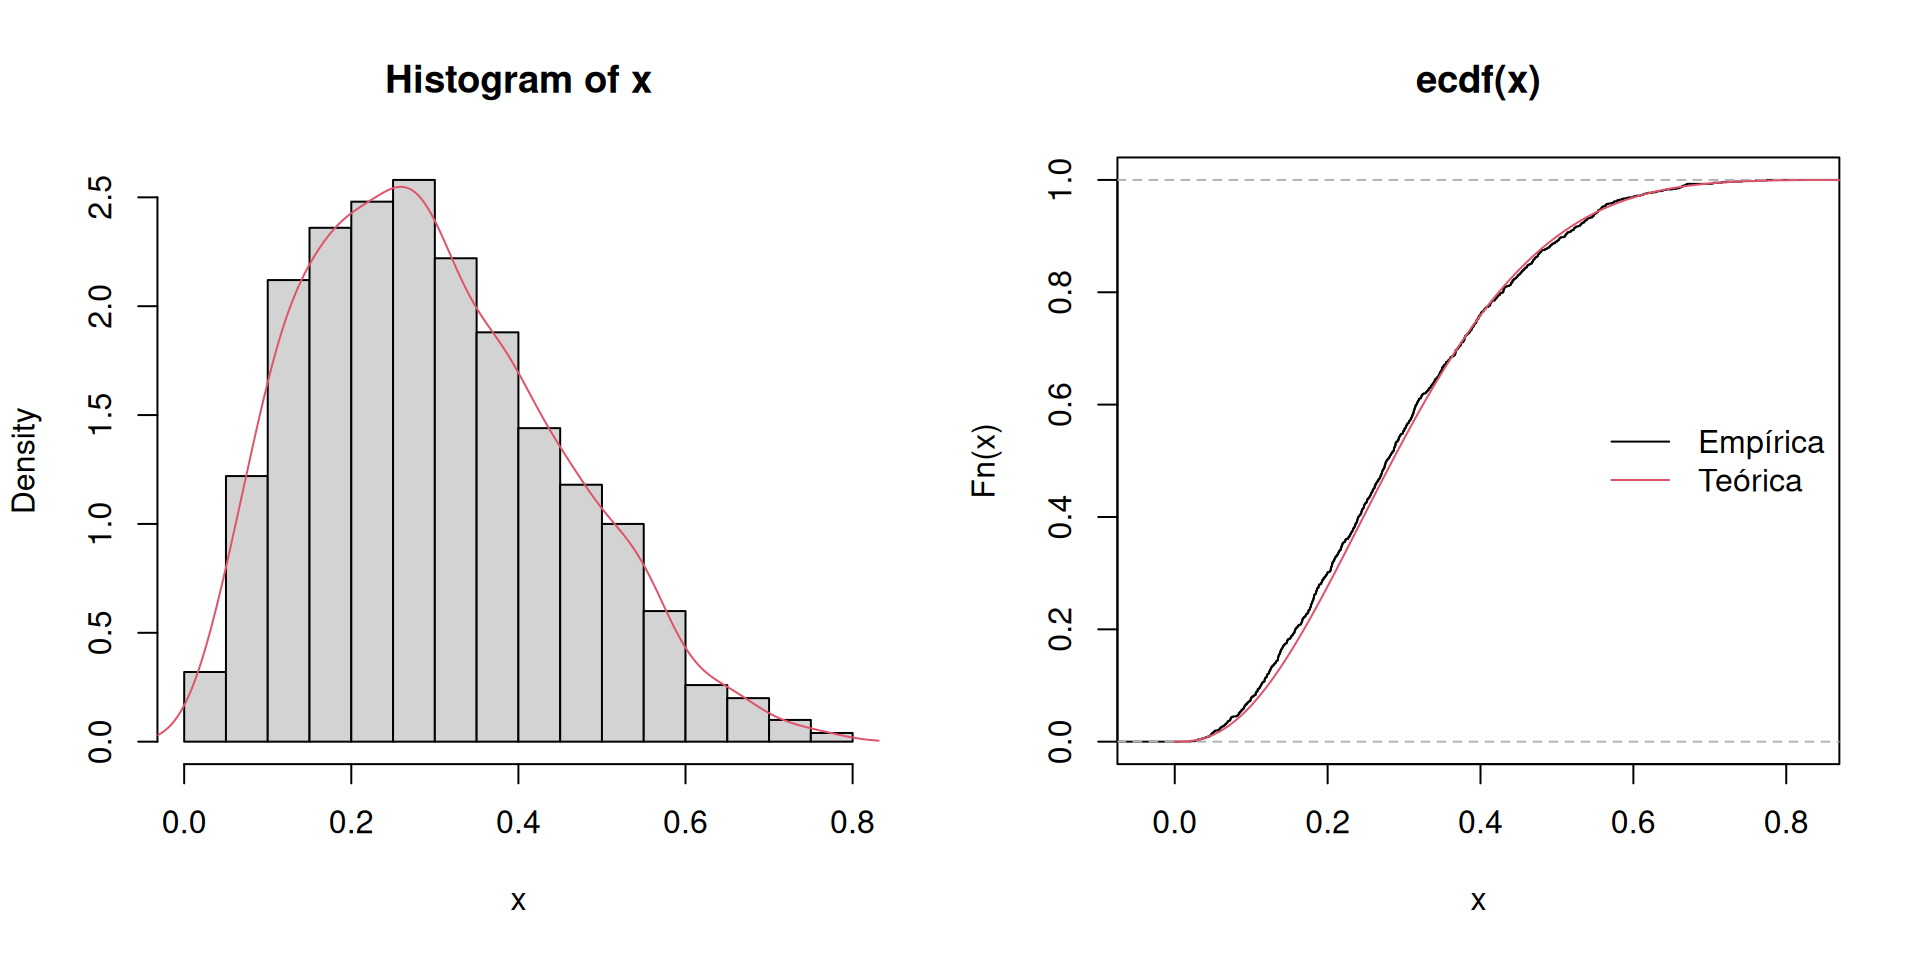
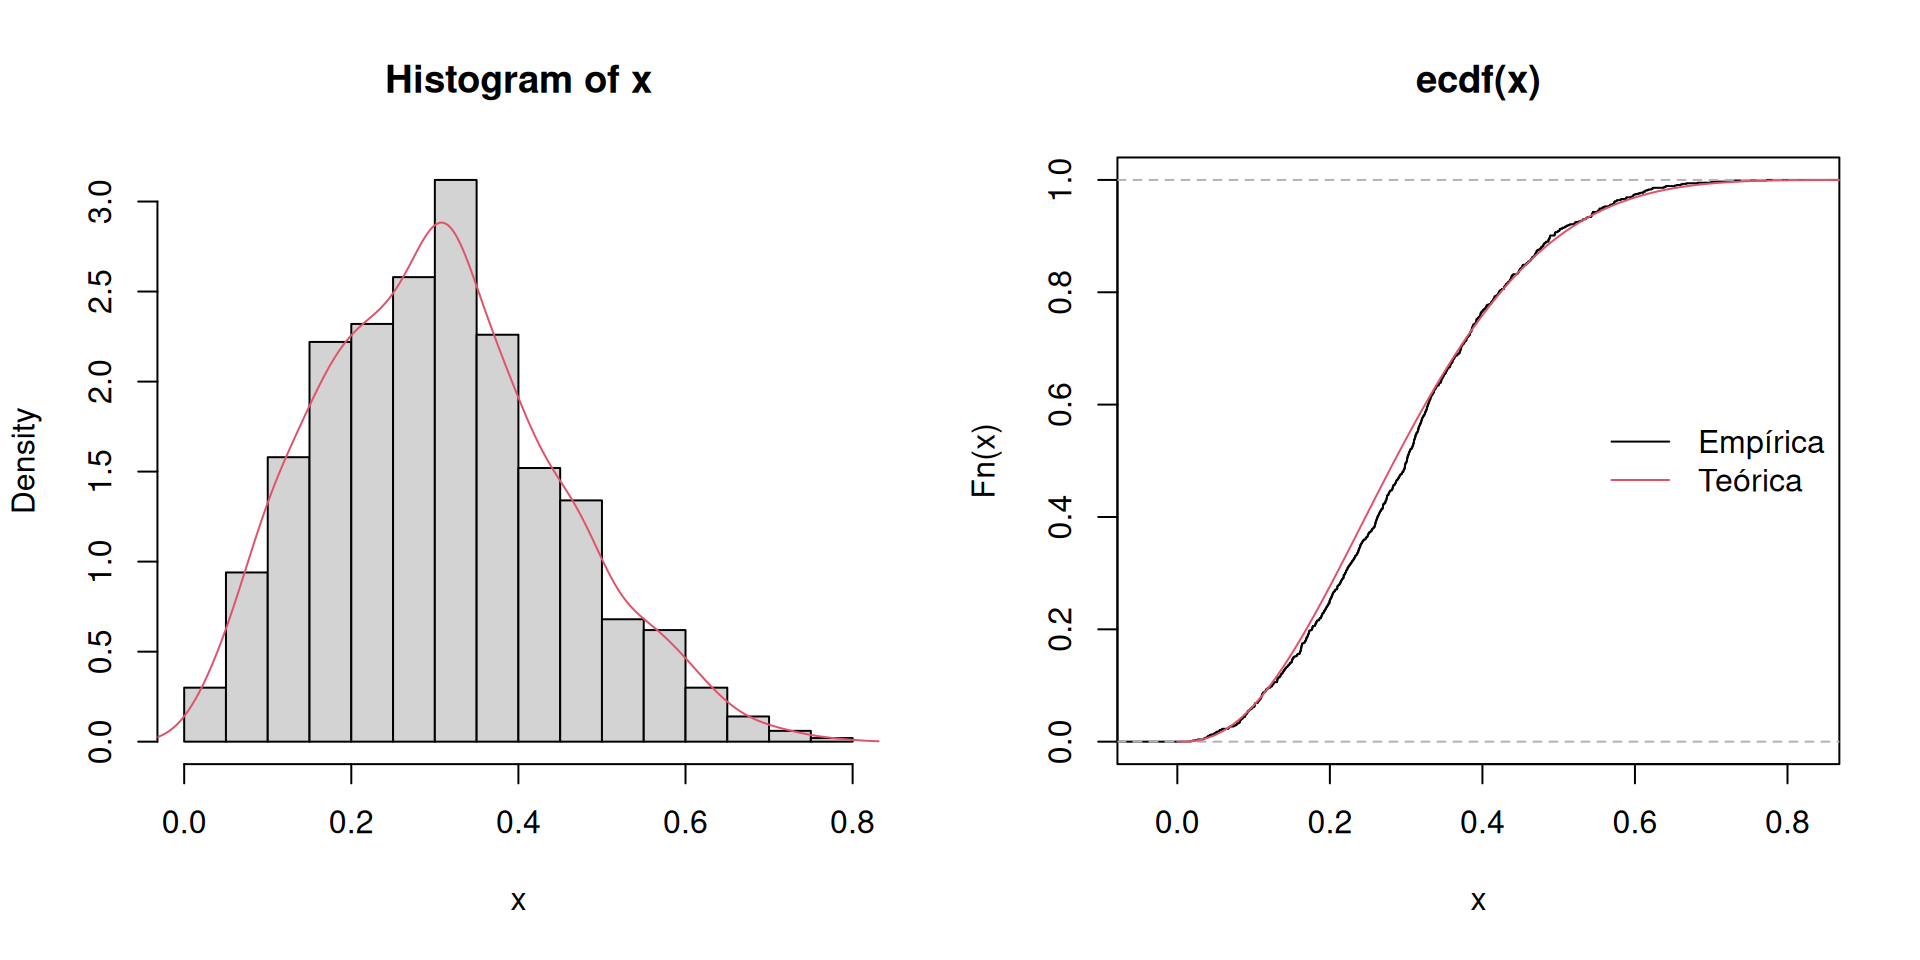
alterado cronograma de aulas

diff --git a/docs/slides/03-Introducao_ao_LaTeX/03-Introducao_ao_LaTeX.html b/docs/slides/03-Introducao_ao_LaTeX/03-Introducao_ao_LaTeX.html
@@ -272,7 +272,7 @@
 <li><p>LaTeX é um pacote dedicado à produção de textos impressos de alta qualidade, com foco especial em textos matemáticos.</p></li>
 <li><p>LaTeX foi desenvolvido por Leslie Lamport como uma evolução do programa TeX, criado por Donald Knuth.</p></li>
 </ul>
-<div class="quarto-layout-panel" data-layout-ncol="2" style="text-align: center;">
+<div class="quarto-layout-panel" style="text-align: center;" data-layout-ncol="2">
 <div class="quarto-layout-row">
 <div class="quarto-layout-cell" style="flex-basis: 50.0%;justify-content: flex-start;">
 <p><img data-src="imagens/Leslie_Lamport.jpg" style="width:7cm"><br> Leslie Lamport</p>
@@ -309,7 +309,7 @@
 <h2>Ferramentas Essenciais para Trabalhar com <img src="imagens/latexicon.png" style="width: 100px; vertical-align: middle; margin-left: 0px; margin-top: 11px;"></h2>
 <p>Para usar o LaTeX, precisamos de duas ferramentas essenciais:</p>
 <h4 id="distribuição-tex">Distribuição TeX:</h4>
-<div class="quarto-layout-panel" data-layout-ncol="2" style="text-align: center;">
+<div class="quarto-layout-panel" style="text-align: center;" data-layout-ncol="2">
 <div class="quarto-layout-row quarto-layout-valign-bottom">
 <div class="quarto-layout-cell" style="flex-basis: 50.0%;justify-content: flex-start;">
 <p><img data-src="imagens/miktex.png" style="width:4cm"><br> MiKTeX</p>
@@ -320,7 +320,7 @@
 </div>
 </div>
 <h4 id="ambiente-de-desenvolvimento-integrado-ide">Ambiente de desenvolvimento integrado (IDE):</h4>
-<div class="quarto-layout-panel" data-layout-ncol="2" style="text-align: center;">
+<div class="quarto-layout-panel" style="text-align: center;" data-layout-ncol="2">
 <div class="quarto-layout-row quarto-layout-valign-bottom">
 <div class="quarto-layout-cell" style="flex-basis: 50.0%;justify-content: flex-start;">
 <p><img data-src="imagens/texstudio.png" style="width:4cm"><br> MiKTeX</p>

diff --git a/docs/info/cronograma.html b/docs/info/cronograma.html
@@ -332,6 +332,16 @@ ul.task-list li input[type="checkbox"] {
 <td style="text-align: left;">Terça, 15 de julho de 2025</td>
 <td style="text-align: left;">Geração de Variáveis Aleatórias Contínuas</td>
 </tr>
+<tr class="even">
+<td style="text-align: center;">16</td>
+<td style="text-align: left;">Terça, 17 de julho de 2025</td>
+<td style="text-align: left;">Geração de Variáveis Aleatórias Contínuas</td>
+</tr>
+<tr class="odd">
+<td style="text-align: center;">17</td>
+<td style="text-align: left;">Terça, 22 de julho de 2025</td>
+<td style="text-align: left;">Geração de Variáveis Aleatórias Contínuas</td>
+</tr>
 </tbody>
 </table>
 

diff --git a/docs/slides/12-Geracao-de-variaveis-aleatorias-Metodo-da-aceitcao-rejeicao/12-Geracao-de-variaveis-aleatorias-Metodo-da-aceitcao-rejeicao.html b/docs/slides/12-Geracao-de-variaveis-aleatorias-Metodo-da-aceitcao-rejeicao/12-Geracao-de-variaveis-aleatorias-Metodo-da-aceitcao-rejeicao.html
@@ -305,7 +305,7 @@
 <span id="cb4-16"><a aria-hidden="true" tabindex="-1"></a></span>
 <span id="cb4-17"><a aria-hidden="true" tabindex="-1"></a><span class="fu">geraf</span>(<span class="dv">1</span>)</span></code><button title="Copiar para a área de transferência" class="code-copy-button"><i class="bi"></i></button></pre></div>
 <div class="cell-output cell-output-stdout">
-<pre><code>[1] 0.9199666</code></pre>
+<pre><code>[1] 0.98335</code></pre>
 </div>
 </div>
 </section>
